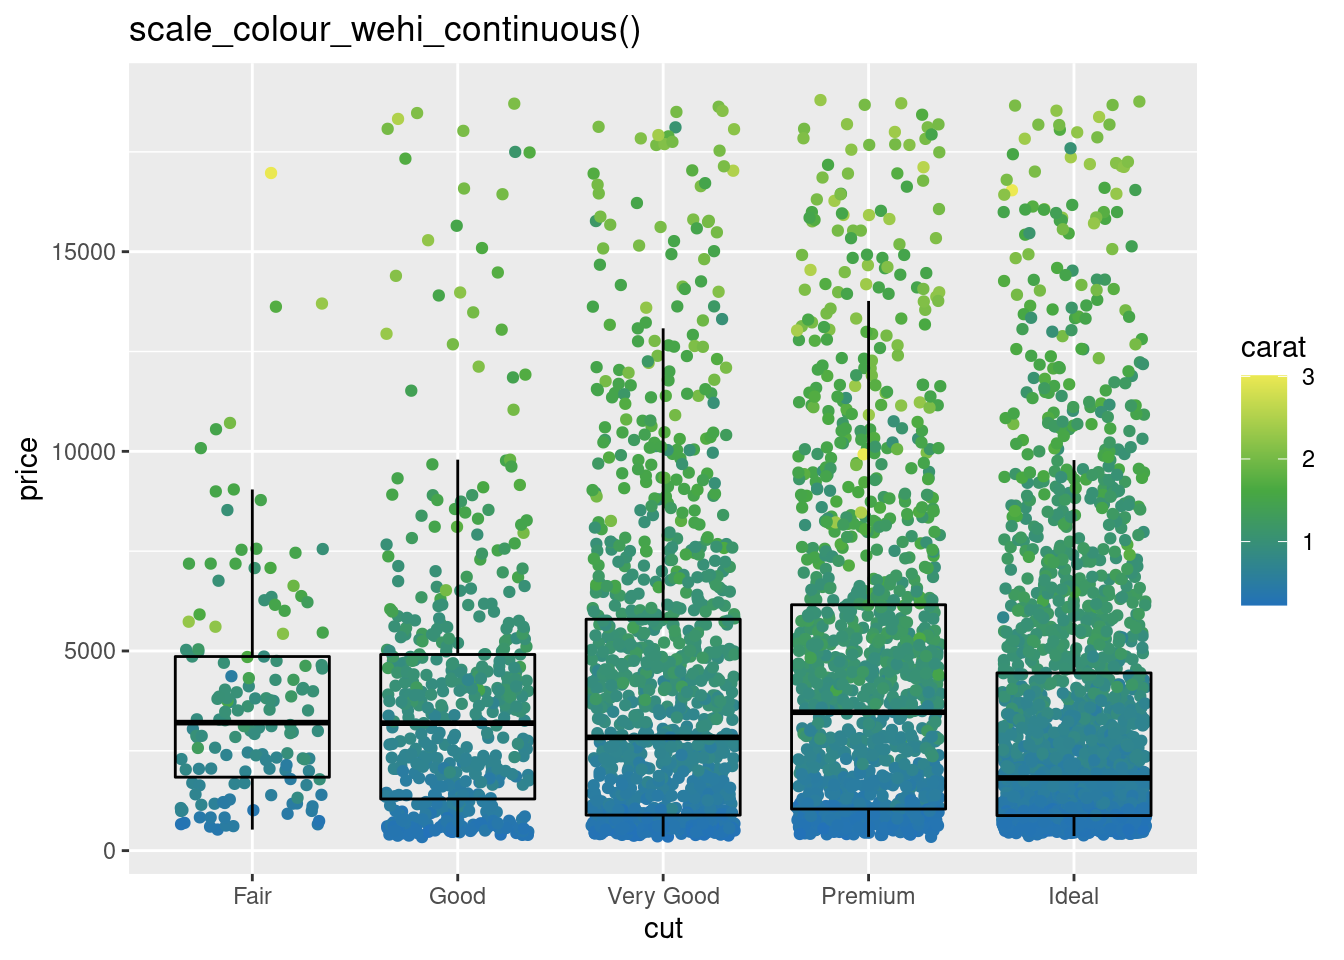
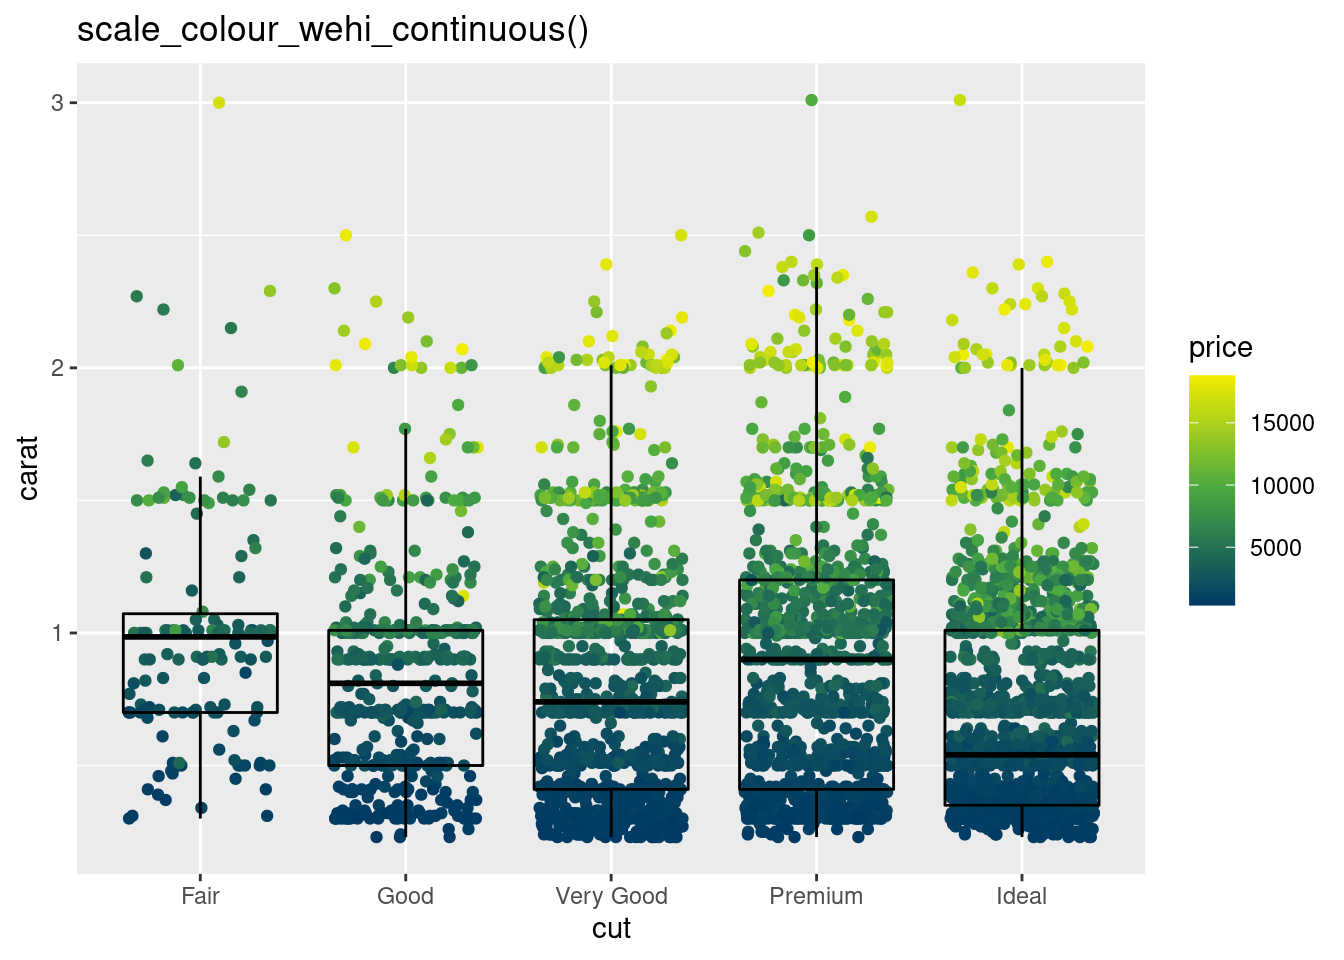
simplified options

diff --git a/README.md b/README.md
@@ -26,11 +26,11 @@ diamonds %>%
 
 ``` r
 set.seed(1)
-tibble(class_condition = c(rbind(str_c(1:5, 'A'), str_c(1:5, 'B'))),
-       class = str_extract(class_condition, '^.'),
-       condition = str_extract(class_condition, '.$'),
+tibble(state = c(rbind(str_c(1:5, 'A'), str_c(1:5, 'B'))),
+       class = str_extract(state, '^.'),
+       condition = str_extract(state, '.$'),
        value = abs(rnorm(length(class)))) %>% 
-  ggplot(aes(class, value, fill = class_condition)) +
+  ggplot(aes(class, value, fill = state)) +
   geom_col() +
   scale_fill_wehi_paired() +
   ggtitle('scale_fill_wehi_paired()')
@@ -41,8 +41,8 @@ tibble(class_condition = c(rbind(str_c(1:5, 'A'), str_c(1:5, 'B'))),
 ``` r
 set.seed(2)
 diamonds %>% 
-  sample_n(5000) %>% 
-  ggplot(aes(x = cut, y = price, col = carat)) +
+  sample_n(5000) %>%
+  ggplot(aes(x = cut, y = carat, col = price)) +
   geom_jitter(height = 0, width = 0.35) + 
   geom_boxplot(fill = NA, outlier.colour = NA, col = 'black') +
   scale_colour_wehi_continuous() +
@@ -51,34 +51,20 @@ diamonds %>%
 
 <img src="README_figs/README-examples-3.png" width="672" />
 
-``` r
-set.seed(2)
-diamonds %>% 
-  sample_n(5000) %>% 
-  ggplot(aes(x = cut, y = price, col = carat)) +
-  geom_jitter(height = 0, width = 0.35) + 
-  geom_boxplot(fill = NA, outlier.colour = NA, col = 'black') +
-  scale_colour_wehi_continuous(option = 'B') +
-  ggtitle('scale_colour_wehi_continuous(option = \'B\')')
-```
-
-<img src="README_figs/README-examples-4.png" width="672" />
-
 ### Scale functions
 
   - `scale_fill_wehi()`/`scale_colour_wehi()`
+      - Supports up to 8 different colours
+      - Note: `na.value` is set to `ggwehi::wehi_grey` (grey from
+        wehi\_primary)
   - `scale_fill_wehi_paired()`/`scale_colour_wehi_paired()`
+      - Supports up to 8 pairs, with 16 different colours
       - Note: This will only work if the aesthetic is such that when
         alphabetically sorted the pairs are adjacent to one another, and
         all pairs are complete. For a more general solution use
         `scale_fill_manual(values = x)` where x is a named vector of
         values from ggwehi::wehi\_paired.
-  - `scale_fill_wehi_ordered()`/`scale_colour_wehi_ordered()`
   - `scale_fill_wehi_continuous()`/`scale_colour_wehi_continuous()`
-      - Note: `scale_fill_wehi_continuous(option = 'B')` provides a
-        scale that is better perceived in grayscale and with various
-        forms of colour blindness, similar to
-        `scale_fill_viridis_c(option = 'E')`
 
 ### Palettes
 
@@ -101,25 +87,13 @@ scales::show_col(wehi_extended)
 <img src="README_figs/README-palettes-3.png" width="672" />
 
 ``` r
-scales::show_col(wehi_ordered)
+scales::show_col(wehi_paired)
 ```
 
 <img src="README_figs/README-palettes-4.png" width="672" />
 
 ``` r
-scales::show_col(wehi_paired)
+scales::show_col(wehi_continous()(seq(0,1,1/15)))
 ```
 
 <img src="README_figs/README-palettes-5.png" width="672" />
-
-``` r
-scales::show_col(wehi_continous_a()(seq(0,1,1/15)))
-```
-
-<img src="README_figs/README-palettes-6.png" width="672" />
-
-``` r
-scales::show_col(wehi_continous_b()(seq(0,1,1/15)))
-```
-
-<img src="README_figs/README-palettes-7.png" width="672" />
